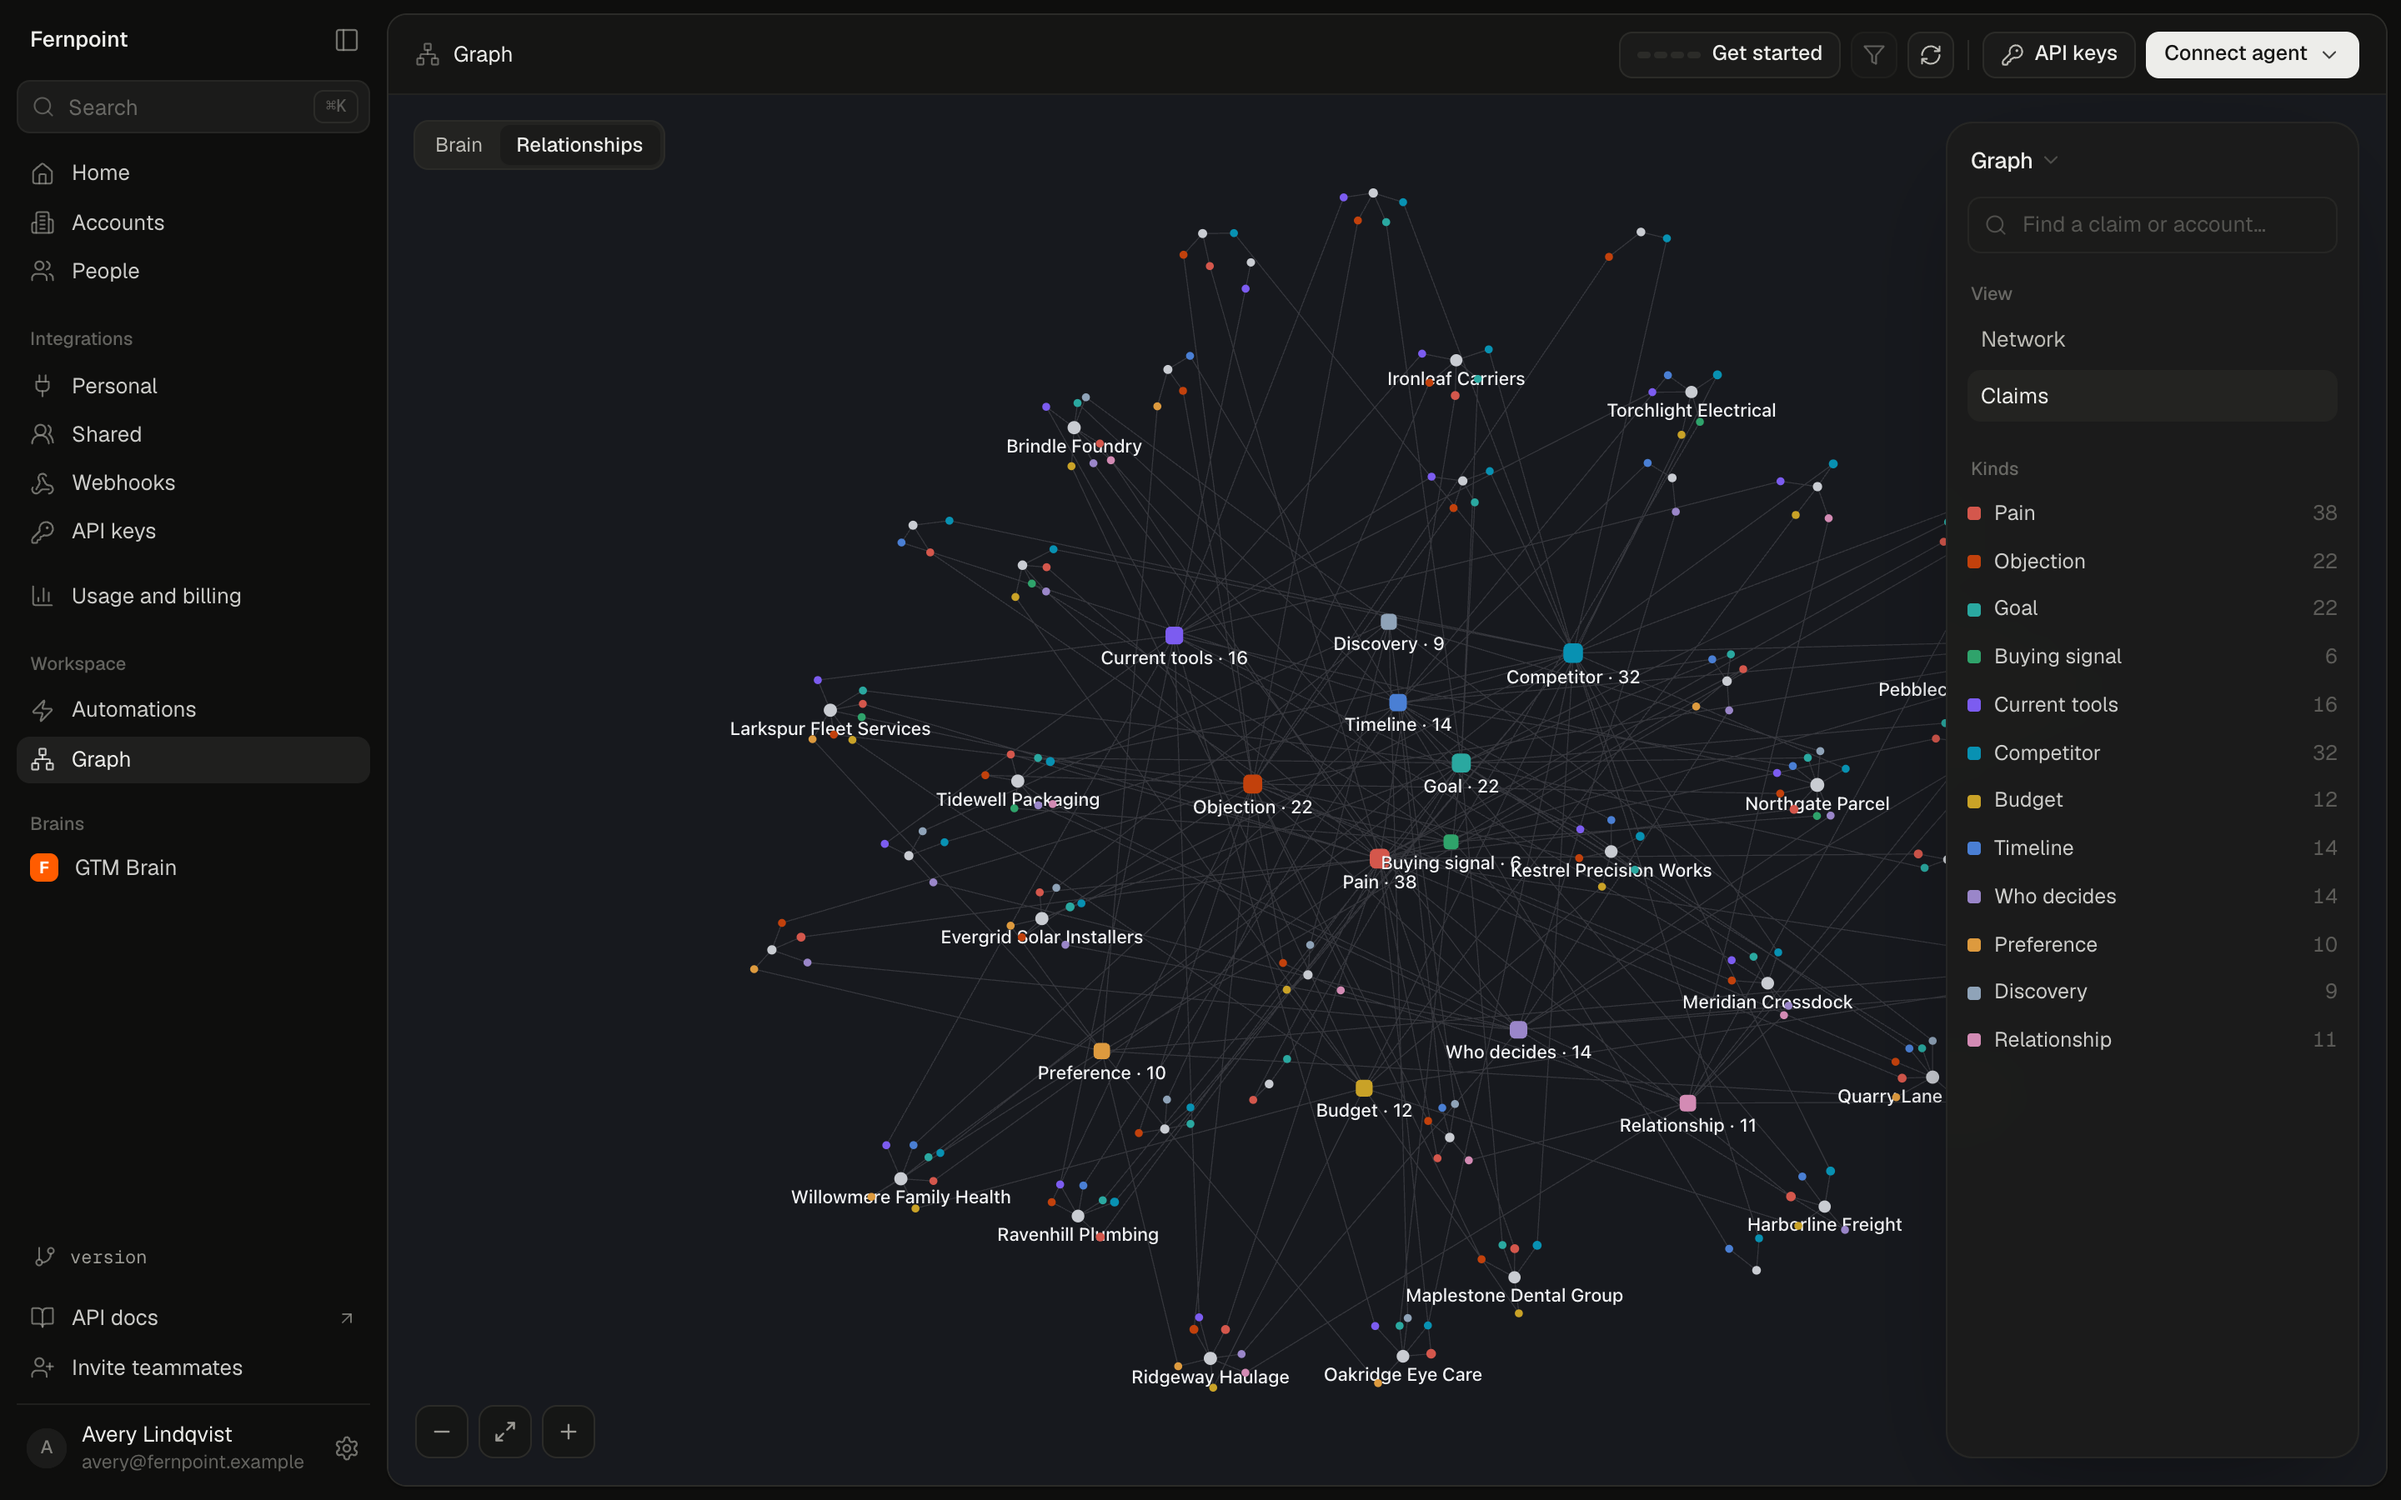
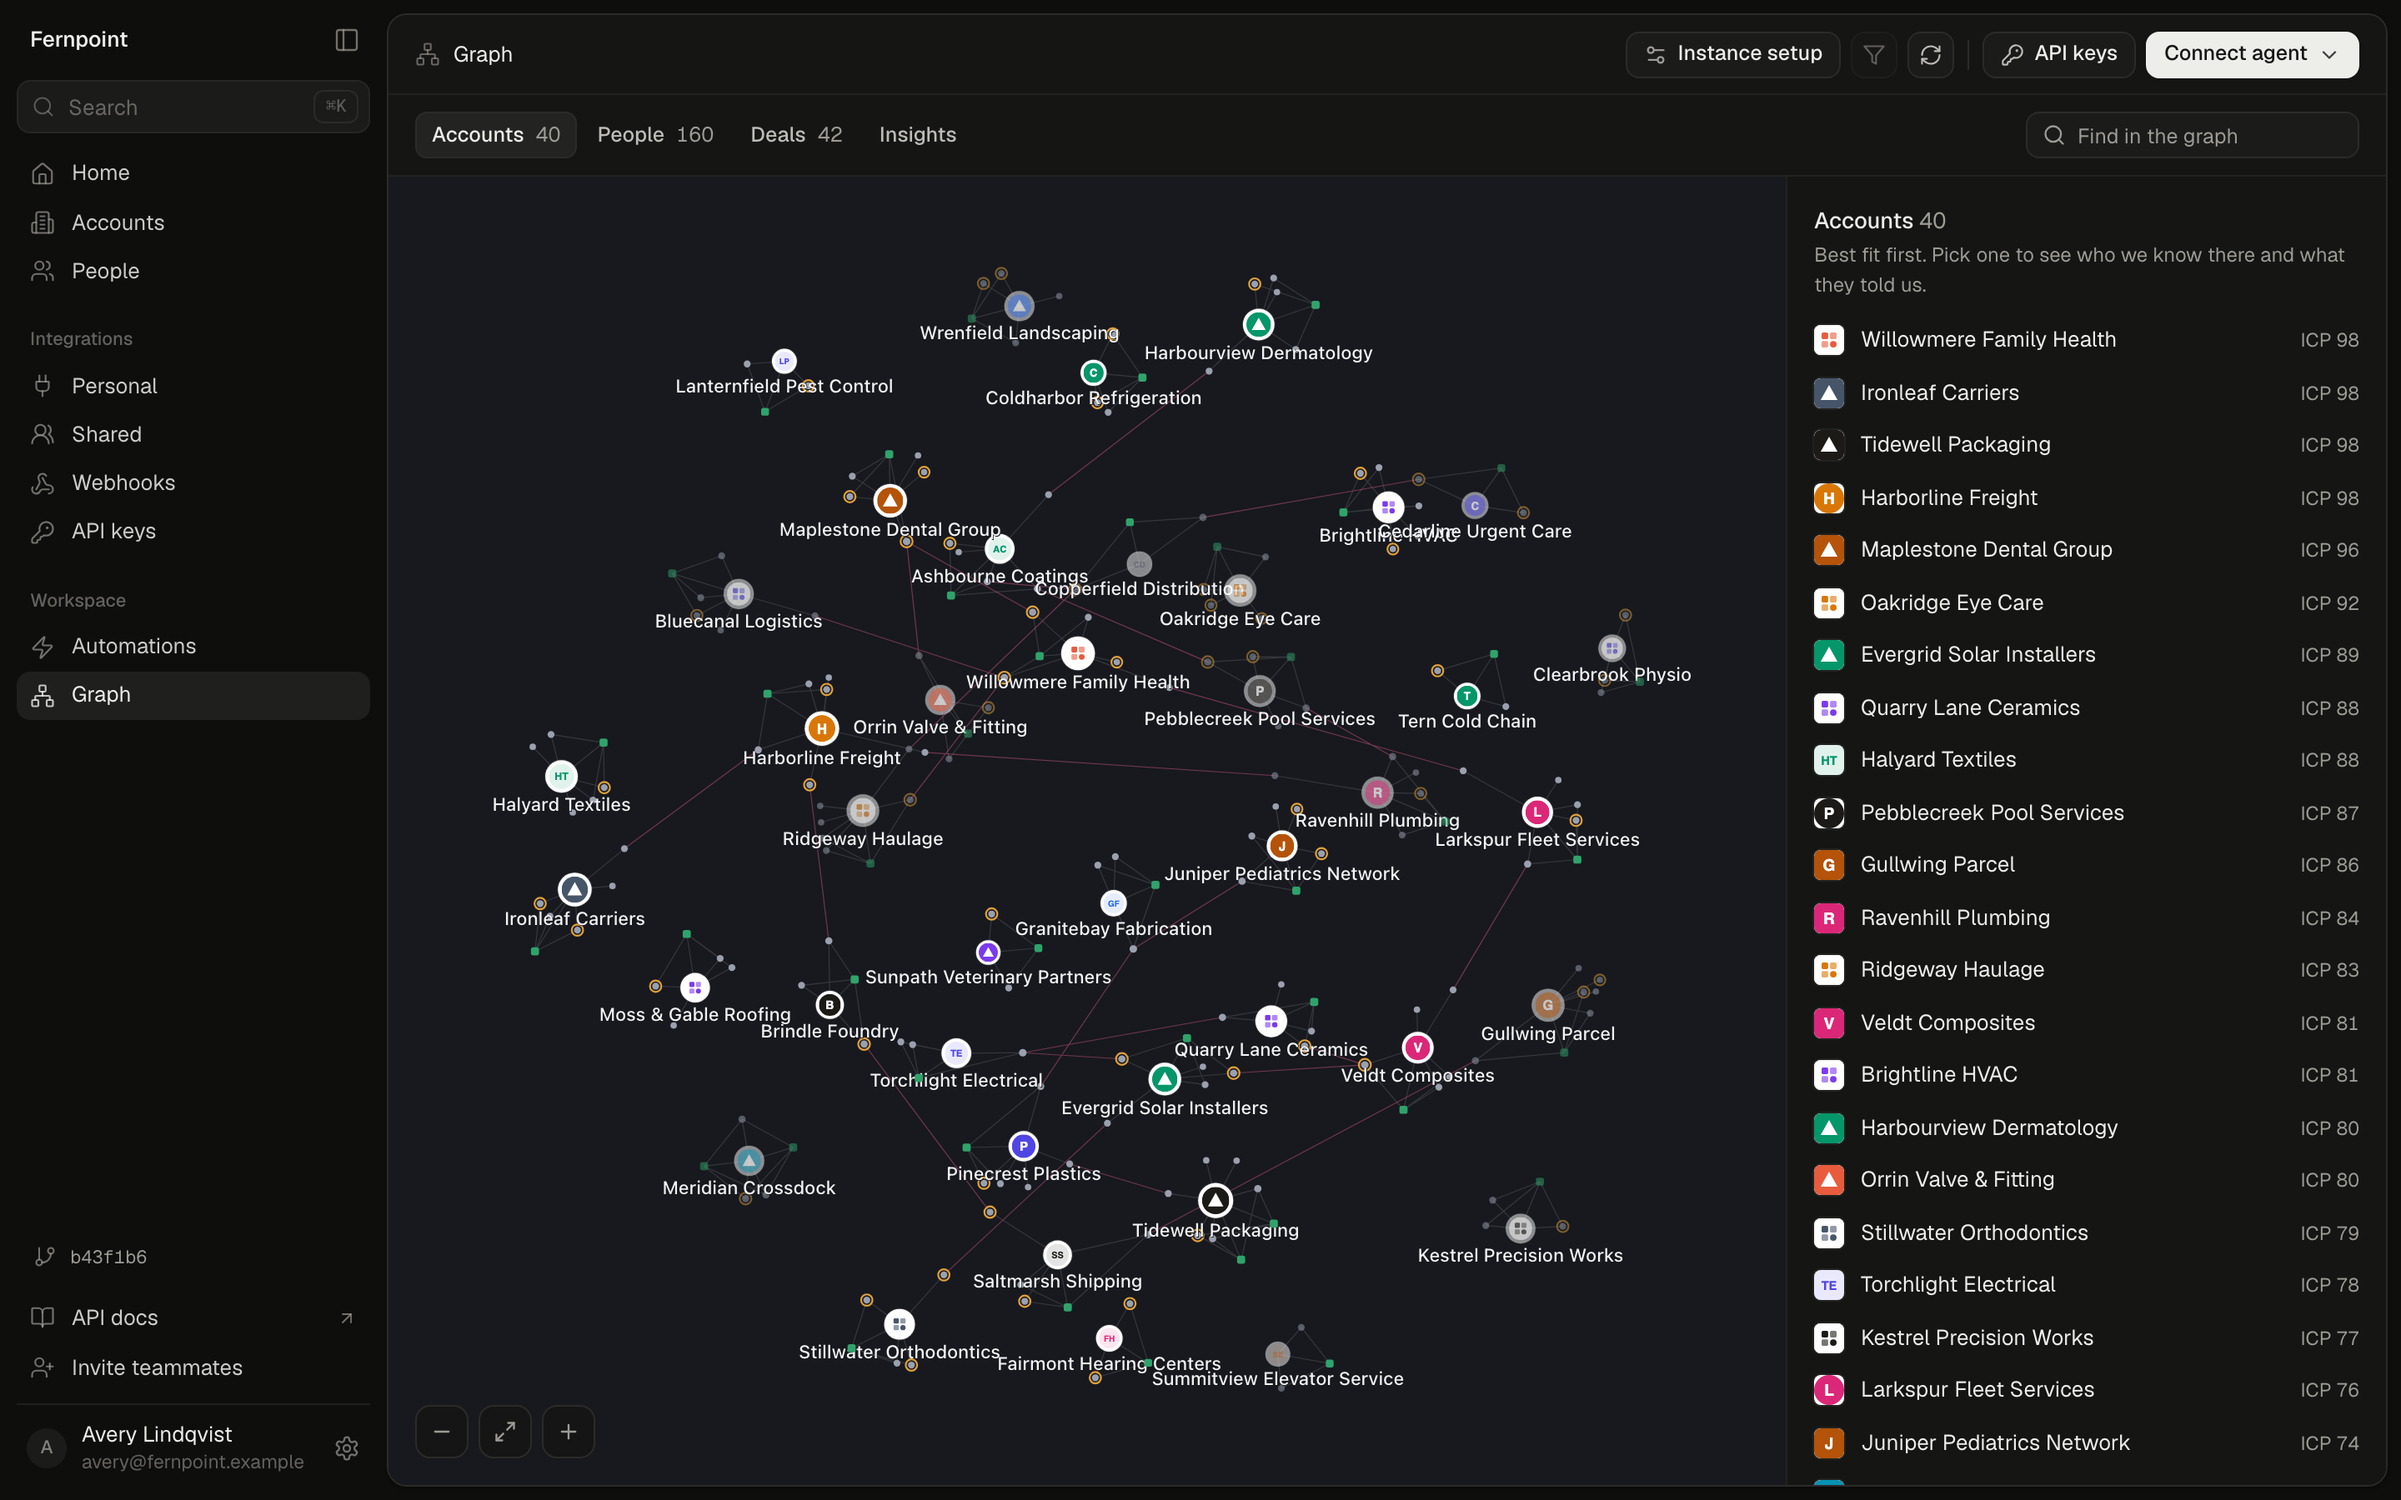
README hero: the Graph v3 accounts view on the Fernpoint demo
GitOrigin-RevId: 27adb7944c4d9ef41713fc70a0a77fea875d2593

diff --git a/README.md b/README.md
@@ -29,7 +29,7 @@
   <picture>
     <source media="(prefers-color-scheme: dark)" srcset=".github/assets/hero-graph-dark.png" />
     <source media="(prefers-color-scheme: light)" srcset=".github/assets/hero-graph.png" />
-    <img src=".github/assets/hero-graph.png" alt="The OpenNous Graph page: accounts linked to the claims recorded about them, grouped by kind" width="900" />
+    <img src=".github/assets/hero-graph.png" alt="The OpenNous Graph: every account with its logo, linked to its people and deals, beside the accounts ranked by ICP fit" width="900" />
   </picture>
 </p>
 
